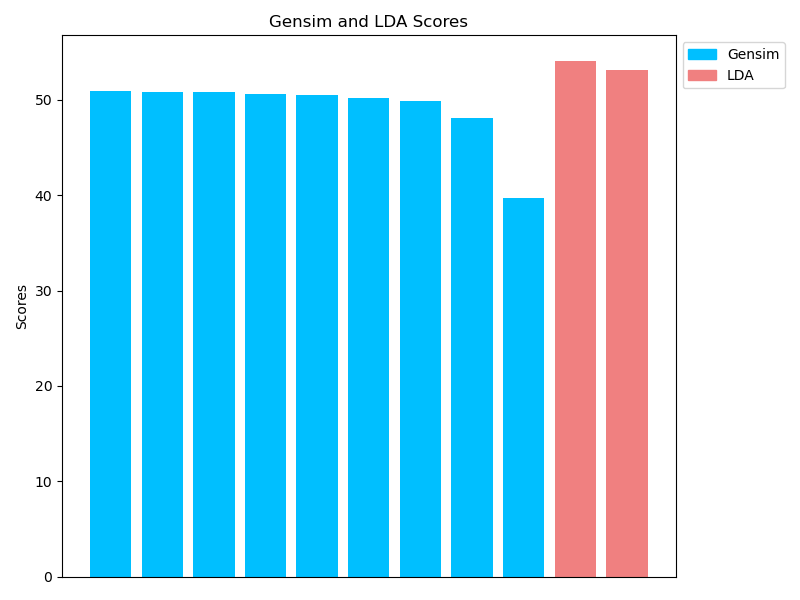
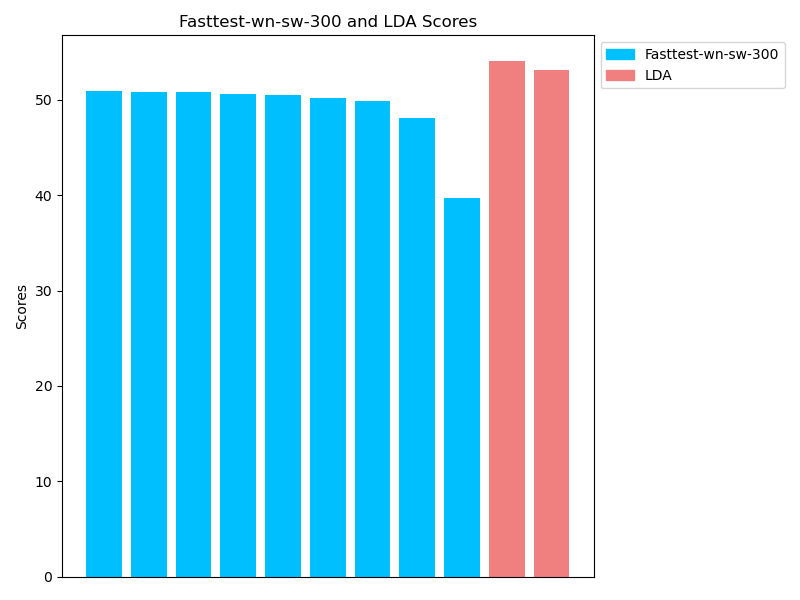
Updated model / config names

Changed region(s): [[0.0938, 0.06, 0.9688, 0.99], [0.2188, 0.03, 0.5938, 0.06]]

diff --git a/KeyBert/graph.py b/KeyBert/graph.py
@@ -3,19 +3,19 @@ import numpy as np
 
 # Provided data
 configurations = [
-    "Base Transformer", "Max Sum MegaSmall-Candidates Transformer", "Base Default",
-    "Max Sum MegaSmall-Candidates Default", "MMR Low Diversity Transformer",
-    "MMR Low Diversity Default", "Base TensorFlow", "Max Sum MegaSmall-Candidates TensorFlow",
-    "MMR Mid Diversity Transformer", "Max Sum Low-Candidates Transformer", "Max Sum Low-Candidates Default",
-    "MMR Mid Diversity Default", "Max Sum Mid-Candidates Transformer", "MMR Low Diversity TensorFlow",
-    "Max Sum Mid-Candidates Default", "Max Sum Low-Candidates TensorFlow",
-    "Max Sum High-Candidates Transformer", "Max Sum High-Candidates Default",
-    "Max Sum Mid-Candidates TensorFlow", "Max Sum High-Candidates TensorFlow",
-    "MMR High Diversity Default", "MMR High Diversity Transformer", "MMR Mid Diversity TensorFlow",
-    "Max Sum Mid-Candidates Gensim", "Base Gensim", "Max Sum MegaSmall-Candidates Gensim",
-    "Max Sum Low-Candidates Gensim", "MMR Low Diversity Gensim",
-    "MMR High Diversity TensorFlow", "Max Sum High-Candidates Gensim",
-    "MMR Mid Diversity Gensim", "MMR High Diversity Gensim"
+    "Base all-mpnet-base-v2", "Max Sum MegaSmall-Candidates all-mpnet-base-v2", "Base all-MiniLM-L6-v2",
+    "Max Sum MegaSmall-Candidates all-MiniLM-L6-v2", "MMR Low Diversity all-mpnet-base-v2",
+    "MMR Low Diversity all-MiniLM-L6-v2", "Base Universal-Sentence-Encoder", "Max Sum MegaSmall-Candidates Universal-Sentence-Encoder",
+    "MMR Mid Diversity all-mpnet-base-v2", "Max Sum Low-Candidates all-mpnet-base-v2", "Max Sum Low-Candidates all-MiniLM-L6-v2",
+    "MMR Mid Diversity all-MiniLM-L6-v2", "Max Sum Mid-Candidates all-mpnet-base-v2", "MMR Low Diversity Universal-Sentence-Encoder",
+    "Max Sum Mid-Candidates all-MiniLM-L6-v2", "Max Sum Low-Candidates Universal-Sentence-Encoder",
+    "Max Sum High-Candidates all-mpnet-base-v2", "Max Sum High-Candidates all-MiniLM-L6-v2",
+    "Max Sum Mid-Candidates Universal-Sentence-Encoder", "Max Sum High-Candidates Universal-Sentence-Encoder",
+    "MMR High Diversity all-MiniLM-L6-v2", "MMR High Diversity all-mpnet-base-v2", "MMR Mid Diversity Universal-Sentence-Encoder",
+    "Max Sum Mid-Candidates Fasttest-wn-sw-300", "Base Fasttest-wn-sw-300", "Max Sum MegaSmall-Candidates Fasttest-wn-sw-300",
+    "Max Sum Low-Candidates Fasttest-wn-sw-300", "MMR Low Diversity Fasttest-wn-sw-300",
+    "MMR High Diversity Universal-Sentence-Encoder", "Max Sum High-Candidates Fasttest-wn-sw-300",
+    "MMR Mid Diversity Fasttest-wn-sw-300", "MMR High Diversity Fasttest-wn-sw-300"
 ]
 
 scores = [
@@ -26,7 +26,7 @@ scores = [
 ]
 
 # Grouping configurations based on prefix
-suffixes = ["Default", "Transformer", "TensorFlow", "Gensim"]
+suffixes = ["all-MiniLM-L6-v2", "all-mpnet-base-v2", "Universal-Sentence-Encoder", "Fasttest-wn-sw-300"]
 
 
 # Grouping scores
@@ -56,11 +56,16 @@ plt.bar(bar_positions + bar_width, max_avgs, width=bar_width, label='Max Sum', c
 plt.xlabel('Models')
 plt.ylabel('Average Scores')
 plt.title('Average Scores for Different Models')
-plt.xticks(bar_positions, suffixes)
+
+# Rotate x-labels
+plt.xticks(bar_positions, suffixes, rotation=10, ha="right")
+plt.tight_layout()
+
 plt.legend()
+plt.savefig("KeyBert/images/model_scores.png")
 
 # Show the plot
-plt.savefig("images/model_scores.png")
+plt.savefig("KeyBert/images/model_scores.png")
 
 setups = ["Base",
           "Max Sum Low-Candidates", "Max Sum Mid-Candidates", "Max Sum High-Candidates",
@@ -96,22 +101,22 @@ plt.xticks(bar_positions, setups, rotation=10, ha='right')
 
 # Show the plot
 plt.tight_layout()
-plt.savefig("images/setup_scores.png")
+plt.savefig("KeyBert/images/setup_scores.png")
 
 gensim_scores = [score for config, score in zip(configurations, scores)
-                 if "Gensim" in config or config == "MMR High Diversity TensorFlow"]
+                 if "Fasttest-wn-sw-300" in config or config == "MMR High Diversity Universal-Sentence-Encoder"]
 lda_scores = [54.08073022312373, 53.172008113590266]
 
 bar_positions = np.arange(len(gensim_scores) + len(lda_scores))
-colors = {'Gensim': 'deepskyblue', 'LDA': 'lightcoral'}
-bar_colors = [colors['Gensim']] * len(gensim_scores) + [colors['LDA']] * len(lda_scores)
+colors = {'Fasttest-wn-sw-300': 'deepskyblue', 'LDA': 'lightcoral'}
+bar_colors = [colors['Fasttest-wn-sw-300']] * len(gensim_scores) + [colors['LDA']] * len(lda_scores)
 
 plt.figure(figsize=(8, 6))
 bars = plt.bar(bar_positions, gensim_scores + lda_scores, color=bar_colors)
 
 # Customize the plot
 plt.ylabel('Scores')
-plt.title('Gensim and LDA Scores')
+plt.title('Fasttest-wn-sw-300 and LDA Scores')
 plt.xticks([])
 
 labels = list(colors.keys())
@@ -120,4 +125,4 @@ plt.legend(handles, labels, loc='upper left', bbox_to_anchor=(1, 1))
 plt.tight_layout()
 
 # Show the plot
-plt.savefig("images/lda_vs_gensim.png")
+plt.savefig("KeyBert/images/lda_vs_gensim.png")
